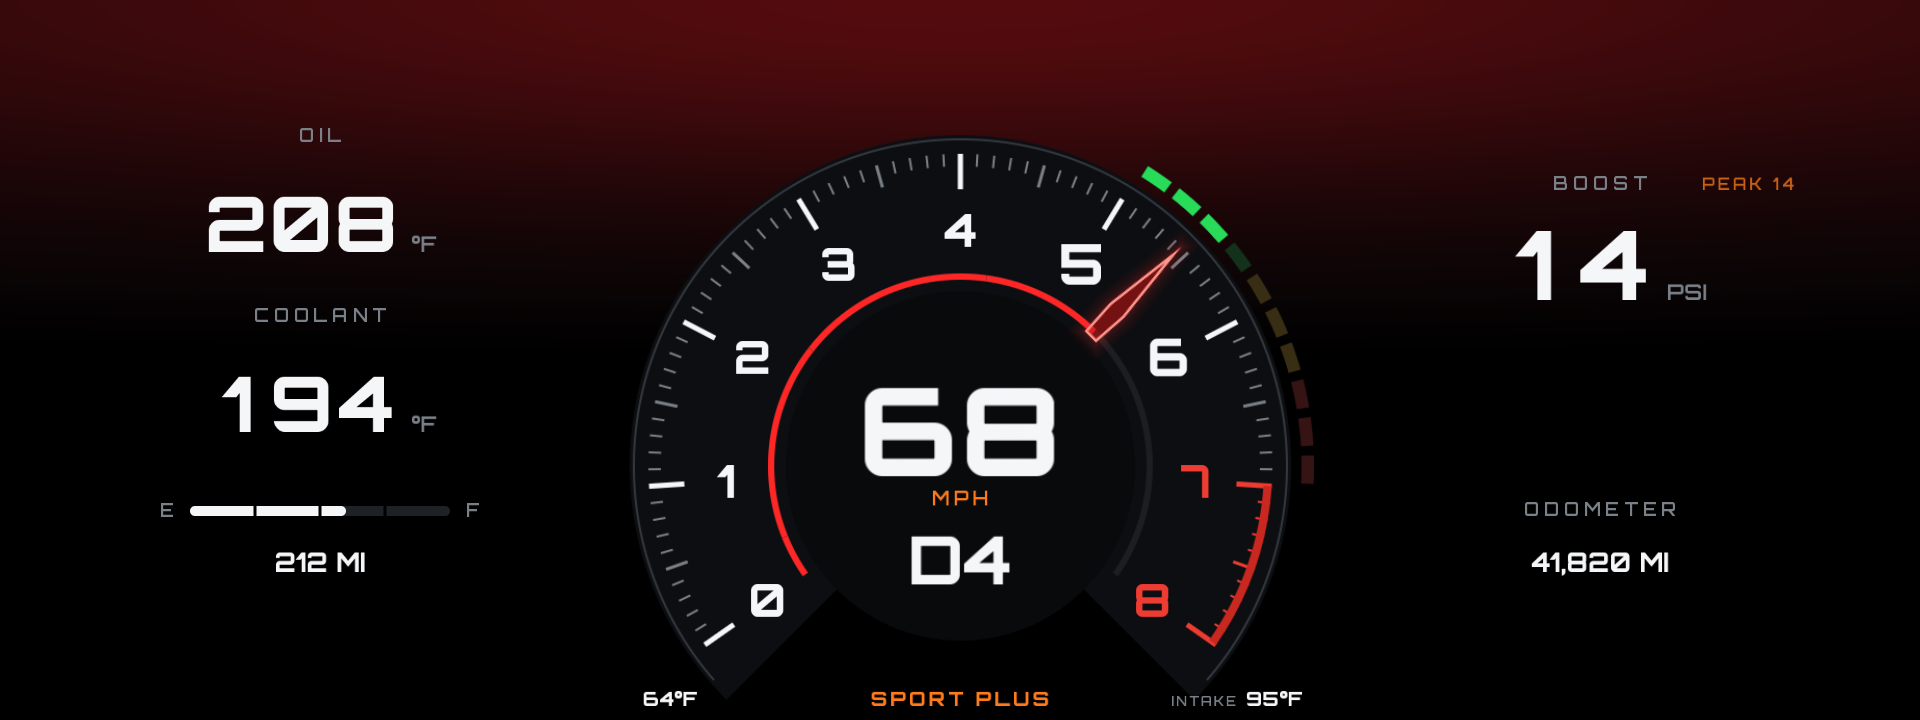
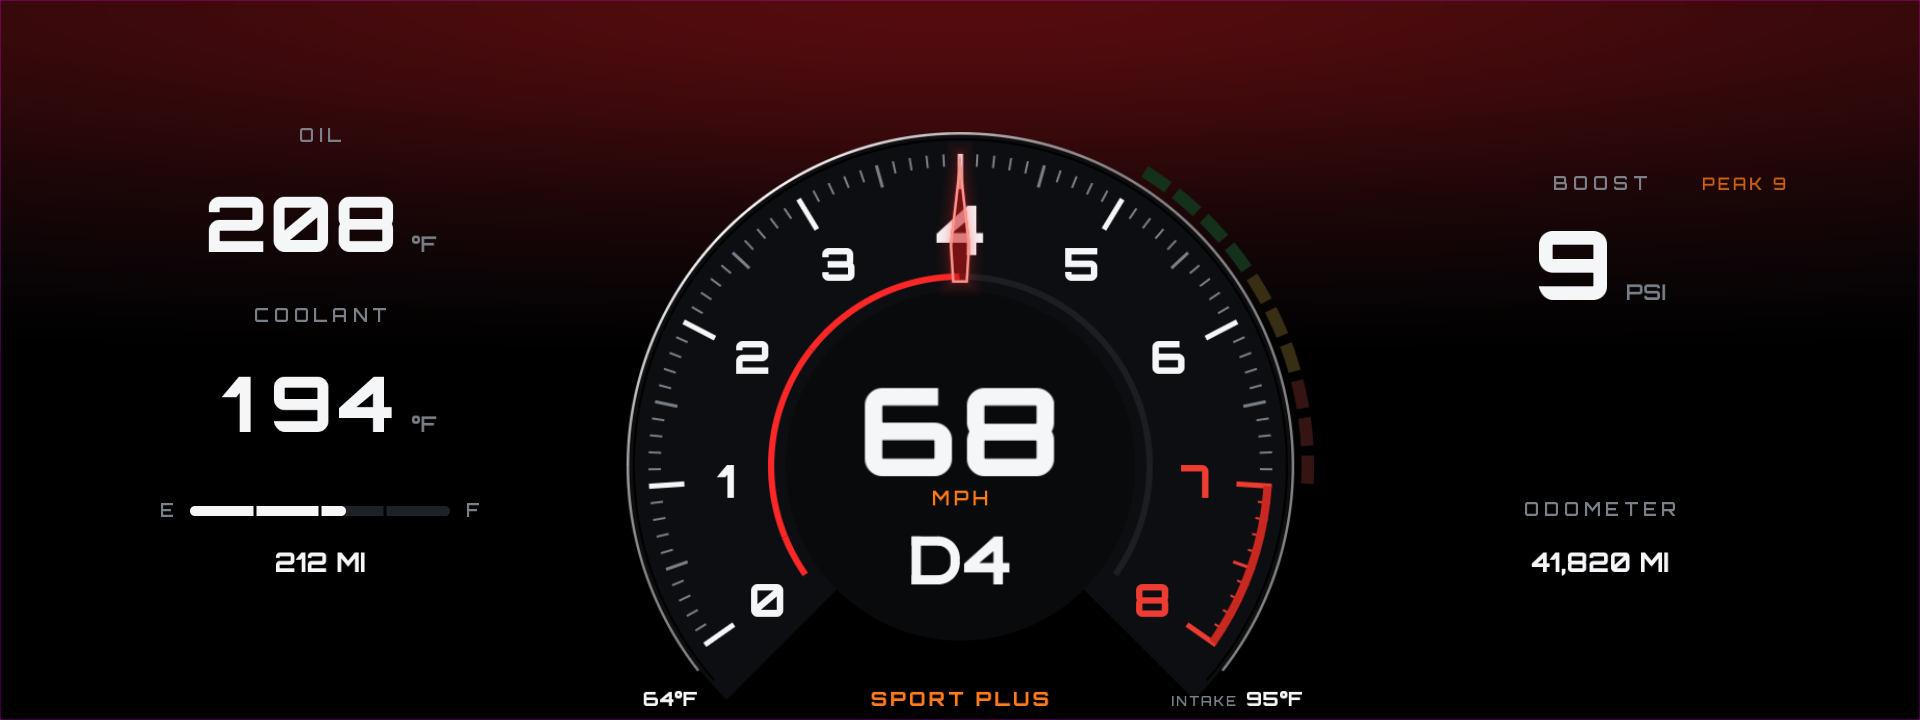
ARC Cluster 0.16.2: a bezel round the tach, a D that doesn't look like an O
The tach gets a thin bright rim, brightest at the top left. It replaces the faint grey line
and is part of the dial's own picture, so it adds nothing while driving.
The gear's D keeps Orbitron's size, stroke and square left side, with a round bowl on the
right. Screenshots redone.

Claude-Session: https://claude.ai/code/session_014iog3VUDnUppvMdVywrbBe

diff --git a/apps/mx_classic_cluster/arc.js b/apps/mx_classic_cluster/arc.js
@@ -106,7 +106,10 @@ function arcFace(opts) {
     cv.clear([0, 0, 0, 0]);
     // the backdrop follows the sweep: open at the bottom, clear of the strip below
     cv.arc(DCX, DCY, 0, R + 18, A0 - 10, A1 + 10, '#0c0e11');
-    cv.arc(DCX, DCY, R + 13, R + 15, A0 - 6, A1 + 6, FAINT);
+    // the bezel (0.16.2, was a faint grey line): a thin bright rim, brightest at the top left as if lit from there,
+    // with a fine black line inside it
+    cv.arc(DCX, DCY, R + 13, R + 15, A0 - 6, A1 + 6, '#000000');
+    cv.arc(DCX, DCY, R + BEZEL.r0, R + BEZEL.r1, -BEZEL.a, BEZEL.a, '#ffffff', { ramp: bezelRamp() });
     // shift lights, unlit: 10 segments over the 2000 rpm below the redline, each a dark tint of its colour
     const l0 = angleOf(red - 2000, max), l1 = angleOf(red, max), st = (l1 - l0) / 10;
     for (let i = 0; i < 10; i++) {
@@ -126,6 +129,15 @@ function arcFace(opts) {
     // (0.15.7: no "x1000 RPM" label)
     return cv;
 }
+
+/* the tach's bezel: radii past R, its half-span (degrees), its grey at angle a (light from the top left) */
+const BEZEL = { r0: 18.5, r1: 21, a: 128 };
+function bezelGrey(a) {
+    const c = Math.max(0, Math.cos((a + 40) * 1.2 * RAD)), k = 0.35 + 0.65 * c * c;
+    const v = Math.round(70 + 175 * k);
+    return [v, v, v, 255];
+}
+function bezelRamp() { return Array.from({ length: 65 }, (_, i) => bezelGrey(-BEZEL.a + 2 * BEZEL.a * i / 64)); }
 
 function tick(cv, a, r0, r1, w, c) {
     const [xa, ya] = pol(DCX, DCY, r0, a), [xb, yb] = pol(DCX, DCY, r1, a);
@@ -540,15 +552,49 @@ function bigText(cv, str, x, y, size, col) {
         const f = fonts.get('orb', fig ? size : Math.min(size, 72), ch), g = f && f.glyphs[ch.codePointAt(0)];
         if (!g) continue;
         const k = size / f.size;
-        parts.push({ f, g, k, x: w });
+        parts.push({ f, g, k, x: w, ch });
         w += g[6] * k;
     }
     const x0 = x - w / 2;
     for (const p of parts) {
         const [gx, gy, gw, gh, ox, oy] = p.g;
-        if (gw && gh) cv._blit(p.f, gx, gy, gw, gh, x0 + p.x + ox * p.k, y + oy * p.k, p.k, c);
+        if (!gw || !gh) continue;
+        if (p.ch === 'D') roundD(cv, p.f, p.g, x0 + p.x + ox * p.k, y + oy * p.k, p.k, col);
+        else cv._blit(p.f, gx, gy, gw, gh, x0 + p.x + ox * p.k, y + oy * p.k, p.k, c);
     }
     return w;
+}
+
+/**
+ * The gear's D (0.16.2): Orbitron's D is a rounded rectangle with small corners, read on the car as an O. This one
+ * keeps its size, stroke and square left side, but its right side is a wide round bowl (corners of D_ROUND of its
+ * height), so it reads as a D. The ink's box and stroke come from Orbitron's own glyph (its atlas).
+ */
+const D_ROUND = 0.45;
+const INK = new Map();
+function inkOf(f, g) {
+    const key = f.family + f.size;
+    if (INK.has(key)) return INK.get(key);
+    const [gx, gy, gw, gh] = g, A = f.alpha, AW = f.atlasW, on = (x, y) => A[(gy + y) * AW + gx + x] >= 128;
+    let x0 = gw, x1 = -1, y0 = gh, y1 = -1;
+    for (let y = 0; y < gh; y++) for (let x = 0; x < gw; x++) if (on(x, y)) { x0 = Math.min(x0, x); x1 = Math.max(x1, x); y0 = Math.min(y0, y); y1 = Math.max(y1, y); }
+    const mid = Math.round((y0 + y1) / 2);
+    let sw = 0;
+    for (let x = x0; x <= x1 && on(x, mid); x++) sw++;
+    const ink = { x: x0, y: y0, w: x1 - x0 + 1, h: y1 - y0 + 1, sw };
+    INK.set(key, ink);
+    return ink;
+}
+function roundD(cv, f, g, dx, dy, k, col) {
+    const ink = inkOf(f, g);
+    const x = dx + ink.x * k, y = dy + ink.y * k, w = ink.w * k, h = ink.h * k, s = ink.sw * k, R = h * D_ROUND;
+    const cx = x + w - R;
+    cv.fillRect(x, y, s, h, col);                                   // the stem, square at both ends
+    cv.fillRect(x, y, cx - x + 1, s, col);                          // top and bottom bars, a pixel into the bowl (no seam)
+    cv.fillRect(x, y + h - s, cx - x + 1, s, col);
+    cv.arc(cx, y + R, R - s, R, 0, 90, col);                        // the bowl: two round corners
+    cv.arc(cx, y + h - R, R - s, R, 90, 180, col);
+    cv.fillRect(x + w - s, y + R - 1, s, h - 2 * R + 2, col);       // and the straight between them, over the joins
 }
 
 module.exports = {

diff --git a/apps/mx_classic_cluster/test.js b/apps/mx_classic_cluster/test.js
@@ -802,6 +802,25 @@ function preloadDrive(done) {
         }, 50);
     }, 200);
 }
+/* the tach's bezel and the gear's D (0.16.2) */
+{
+    const A = require('./arc'), PL = require('./preload');
+    const face = A.arcFace({ redline: 7000, max: 8000 }), d = face.d, W = face.w;
+    const px = (r, a) => { const x = Math.round(A.DCX + r * Math.sin(a * Math.PI / 180)), y = Math.round(A.DCY - r * Math.cos(a * Math.PI / 180)); return d[(y * W + x) * 4]; };
+    const rb = A.R + 19.75;
+    assert(px(rb, -40) > 230 && px(rb, 100) < 140 && px(rb, 100) > 50, 'the bezel: bright at the top left, dim on the right: ' + px(rb, -40) + ' / ' + px(rb, 100));
+    assert(!px(rb, 132), 'and open at the bottom');
+    // the D: square at its top left (Orbitron's O is not), round at its top right
+    const at = PL.atlas('gear', A.CENTRE_GEAR_SIZE, A.CENTRE_GEAR.h, A.CENTRE_GEAR_BASE - A.CENTRE_GEAR.y);
+    const ink = (ch) => { const i = at.glyphs.indexOf(ch), c = at.cv; let x0 = 1e9, x1 = -1, y0 = 1e9, y1 = -1;
+        for (let y = 0; y < c.h; y++) for (let x = i * at.cw; x < (i + 1) * at.cw; x++) if (c.d[(y * c.w + x) * 4 + 3] > 128) { x0 = Math.min(x0, x); x1 = Math.max(x1, x); y0 = Math.min(y0, y); y1 = Math.max(y1, y); }
+        return { a: (x, y) => c.d[(y * c.w + x) * 4 + 3], x0, x1, y0, y1 }; };
+    const D = ink('D');
+    assert(D.a(D.x0 + 1, D.y0 + 1) > 200 && D.a(D.x0 + 1, D.y1 - 1) > 200, 'square left corners');
+    assert(D.a(D.x1 - 2, D.y0 + 2) < 40 && D.a(D.x1 - 2, D.y1 - 2) < 40, 'a round bowl on the right');
+    assert(D.a(D.x1 - 1, Math.round((D.y0 + D.y1) / 2)) > 200, 'closed on the right');
+}
+
 /* boost as a bar (setting boostStyle 'bar'): its shader and twin, its place, every inked pixel in a sent strip */
 {
     const A = require('./arc'), PL = require('./preload'), B = A.BOOST_BAR, S = B.spec;

diff --git a/README.md b/README.md
@@ -8,11 +8,11 @@ tachometer in the middle, the speed and gear inside it, and big readouts either 
 
 ![ARC Cluster, Dusk background](docs/arc-cluster.png)
 
-- **Tachometer:** a red arc that fills with the revs, a "red glass" needle, numerals that grow as the needle comes
-  up to them, and shift lights outside the scale (green, yellow, then red over the last 2,000 rpm, all flashing red
-  from the redline).
+- **Tachometer:** a thin bezel lit from the top left, a red arc that fills with the revs, a "red glass" needle,
+  numerals that grow as the needle comes up to them, and shift lights outside the scale (green, yellow, then red
+  over the last 2,000 rpm, all flashing red from the redline).
 - **Centre:** the speed, large, and the gear under it: `D4` in drive, `S4` with the lever in the sport gate, and the
-  number alone while shifting by hand.
+  number alone while shifting by hand. The D has a round bowl, so it doesn't read as an O.
 - **Left:** oil and coolant temperature, a fuel bar and the range.
 - **Right:** boost, with the drive's peak beside its label, and the odometer. Optionally boost as
   [a number and a segmented bar](docs/arc-boost-bar.png) (0-25 psi, a segment a psi, red from 21, the peak an orange marker over it).
